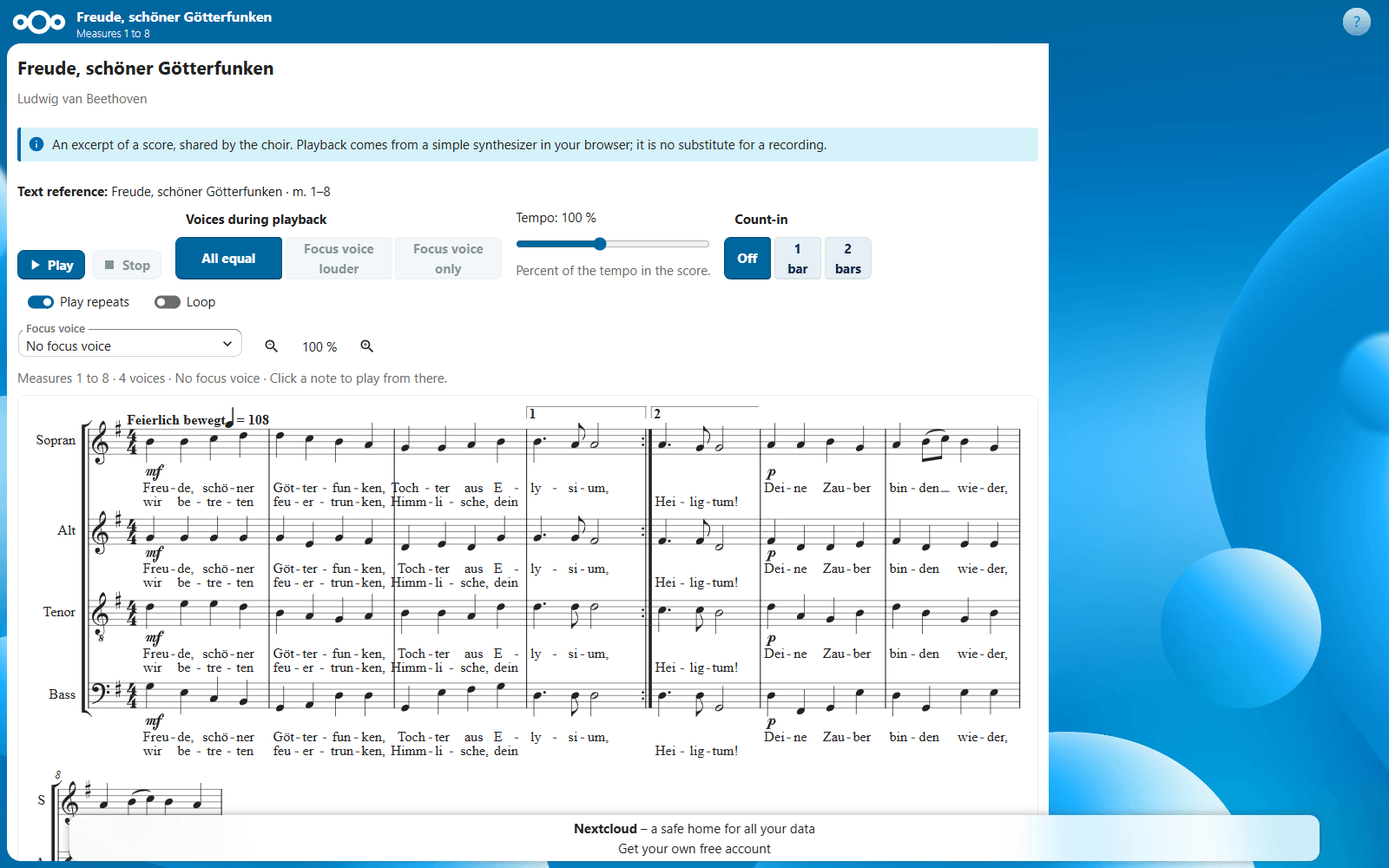
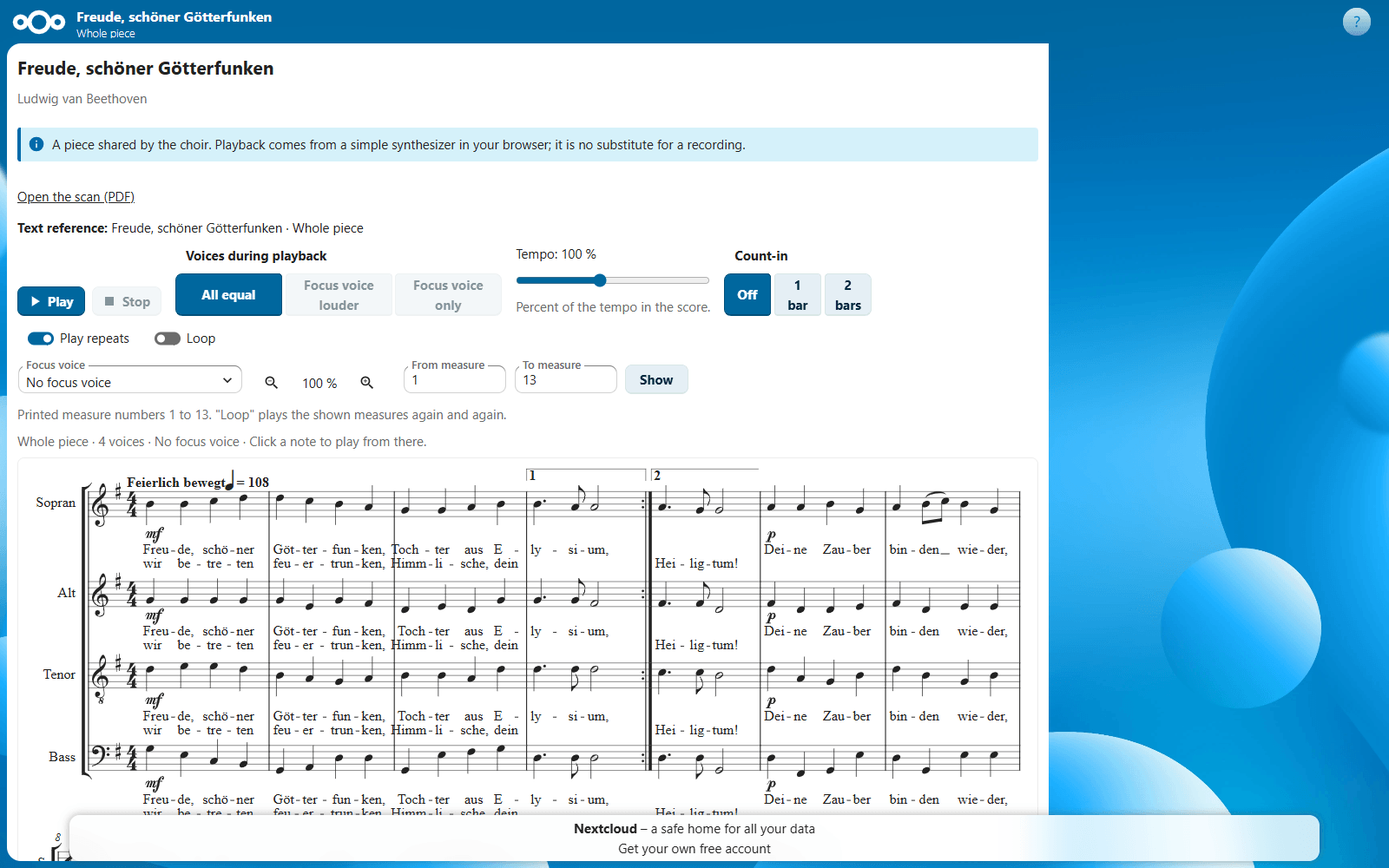
Screenshots of sharing whole pieces, all pictures in the German guides
The share dialog, "Shared with me" and the public link are taken again
with the demo data: a whole piece with the scan (PDF) instead of an
excerpt. The screenshot tool shares 1-1 and 1-2 as whole pieces with
their scan and uses the button "Share …". Alt texts in the guides, the
README and the list of screenshots follow.

The German user and administration guides now show the same pictures in
the same places as the English ones (16 added, German variants where
they exist), with German alt texts; a few alt texts are corrected to
what the pictures show. The docs test also compares the number of
images per section in English and German.

Claude-Session: https://claude.ai/code/session_01KdSSudemHpfG7TYcFxX45R

diff --git a/src/__tests__/docs.test.ts b/src/__tests__/docs.test.ts
@@ -80,6 +80,28 @@ function headings(text: string): { level: number, anchor: string, repeated: bool
 }
 
 /**
+ * The number of images (`![…](…)`) per section of a Markdown text: the text
+ * before the first heading, then each heading of any level up to the next.
+ * Headings inside code blocks do not start a section.
+ *
+ * @param text - Markdown
+ */
+function imagesPerSection(text: string): number[] {
+	const counts = [0]
+	let code = false
+	for (const line of text.split(/\r?\n/)) {
+		if (/^\s*(```|~~~)/.test(line)) {
+			code = !code
+		} else if (!code && /^#{1,6} /.test(line)) {
+			counts.push(0)
+		} else {
+			counts[counts.length - 1]! += line.match(/!\[[^\]]*\]\([^)]+\)/g)?.length ?? 0
+		}
+	}
+	return counts
+}
+
+/**
  * The anchors of the headings of a guide.
  *
  * @param path - path relative to the repository
@@ -144,6 +166,11 @@ describe('the guides in English and German', () => {
 		// A section added in only one language shows up here: change both.
 		const levels = (path: string) => headings(doc(path)).map((heading) => heading.level)
 		expect(levels(german)).toEqual(levels(english))
+	})
+
+	it.each(PAIRS)('%s and %s show the same number of images in each section', (english, german) => {
+		// A screenshot added in only one language shows up here: add it to both.
+		expect(imagesPerSection(doc(german))).toEqual(imagesPerSection(doc(english)))
 	})
 
 	it.each(PAIRS)('%s and %s link each other at the top', (english, german) => {

diff --git a/docs/de/benutzerhandbuch.md b/docs/de/benutzerhandbuch.md
@@ -144,7 +144,7 @@ Funktion ist abgeschaltet.*
 
 ### Startseite „Fällig“
 
-![Die Startseite „Fällig“ in der deutschen Oberfläche: Karten mit der Zahl der anstehenden Dinge, zum Beispiel offene Aufgaben, Programmpunkte mit unklarer Signatur und ein Vorschlag im Eingang.](../screenshots/de/start-page.png)
+![Die Startseite „Fällig“ in der deutschen Oberfläche: Karten mit der Zahl der anstehenden Dinge, zum Beispiel eine offene Aufgabe, Programmpunkte mit unklarer Signatur und Vorschläge im Eingang, darunter die Konzertfristen mit dem Adventskonzert 2026.](../screenshots/de/start-page.png)
 
 Die App öffnet mit **Fällig**: Das braucht jetzt deine Rollen. Karten zeigen,
 wie viele Dinge warten, zum Beispiel offene Aufgaben für deine Rolle,
@@ -215,9 +215,11 @@ auch Personen aus dem Personenregister. Sie zeigt nur, was deine Rollen sehen
 dürfen: interne Erhaltungskopien nur der Rolle „Bestand“ und der
 Chorleitung, und Konten ohne Rolle im Notenarchiv gar nichts.
 
+![Die Suche von Nextcloud mit dem Begriff „Mond“: unter den Dateien der Bereich „Notenarchiv“ mit den Exemplaren 1-1 und 3-1 „Der Mond ist aufgegangen“, jedes mit Komposition und Bearbeitung.](../screenshots/unified-search.png)
+
 ### Die Angaben zu einem Exemplar
 
-![Die Seitenleiste von Exemplar 1-1 im Reiter „Übersicht“: Titel, Rechtestatus, die Schaltfläche „Noten“, die Reiter und die Felder von Werk und Fassung, jeder Abschnitt mit einer Schaltfläche „Bearbeiten“.](../screenshots/copy-overview.png)
+![Die Seitenleiste von Exemplar 1-1 im Reiter „Details“: Titel, Rechtestatus, die Schaltfläche „Noten“, die Zahl der offenen Prüfpunkte, die Reiter Details, Rechte, Fragen, Dateien und Verlauf und die Felder des Werks mit der Schaltfläche „Bearbeiten“.](../screenshots/copy-overview.png)
 
 Klicke auf eine Zeile, um die Seitenleiste zu öffnen. Ihr Kopf zeigt das
 Rechte-Kennzeichen, den Status, wenn das Exemplar nicht aktiv ist, und
@@ -311,7 +313,7 @@ den Text einer Rückfrage oder den Namen einer Person.
 
 ### Aus der Dateien-App öffnen
 
-<!-- Screenshot planned: screenshots/files-action.png (docs/screenshots/README.md) -->
+![Die App „Dateien“ im Ordner Mappe_2 des Demo-Archivs mit dem geöffneten Aktionsmenü der MusicXML-Datei von Exemplar 2-1; unter den Aktionen „Im Notenarchiv öffnen“.](../screenshots/files-action.png)
 
 Der Archivordner ist ein gewöhnlicher Ordner in Nextcloud. Du findest eine
 Datei also auch in der App **Dateien**. Dateien des Archivordners haben im
@@ -508,7 +510,7 @@ Stimme aus einem mit ihnen geteilten Stück oder Ausschnitt erstellen (siehe
 
 ### Eine Rückfrage stellen oder eine Aufgabe geben
 
-![Der Reiter „Aufgaben“ von Exemplar 2-1 mit einer offenen Rückfrage an die Chorleitung zu den Takten 5 bis 8 im Tenor II und darunter ein interner Link auf dieselbe Stelle.](../screenshots/task-question.png)
+![Der Reiter „Fragen“ von Exemplar 2-1 mit einer offenen Rückfrage an die Chorleitung zu den Takten 5 bis 8 im Tenor II und darunter ein interner Link auf dieselbe Stelle.](../screenshots/task-question.png)
 
 Eine Rückfrage oder Aufgabe gehört immer zu einem Exemplar und kann eine
 Stelle in den Noten nennen: Seite, Takte, Stimme und Strophe.
@@ -630,6 +632,8 @@ sofort für alle.
 > bis 7 von „Der Mond ist aufgegangen“ (1-1) klingen dort als 1–6, 1–5, 7,
 > in einem geteilten Ausschnitt dieser Takte als 1–7.
 
+![Der Dialog „1-1 teilen“ über der Notenansicht: „Wer kann den Link öffnen?“ mit „Chormitglieder“ gewählt, „Was wird geteilt?“ mit „Ganzes Stück“, die Stimme Alt, die Gültigkeit, „Scan (PDF) mitgeben“ angehakt und der Kasten „Das ist beim Öffnen des Links zu sehen“ mit ganzem Stück, hervorgehobener Stimme, Tempo, Gültigkeit, Wiedergabe, Übe-Dateien und Scan (PDF).](../screenshots/share-dialog.png)
+
 #### Öffentliche Links
 
 Ein öffentlicher Link zeigt ein ganzes Stück oder einen Ausschnitt allen, die
@@ -651,6 +655,8 @@ Stimme und eine Textbeschreibung, spielt es mit betonter Stimme ab und
 verlinkt, falls mitgegeben, den Scan. Läuft der Link ab, wird er widerrufen
 oder ist die Fassung nicht mehr freigegeben, zeigen die Seite und der Scan
 „nicht gefunden“ ohne Grund.
+
+![Die Seite eines öffentlichen Links im öffentlichen Layout von Nextcloud, ohne Anmeldung: Titel und Komposition von „Freude, schöner Götterfunken“, der Hinweis, dass die Wiedergabe von einem einfachen Synthesizer kommt, der Link „Scan (PDF) öffnen“, die Wiedergabe mit Einzähler und Wiederholen und die Noten des ganzen Stücks.](../screenshots/public-link.png)
 
 ### Übertragungen prüfen
 
@@ -744,6 +750,8 @@ angesagt. Das Werkverzeichnis zeigt die Zahl der offenen Prüfpunkte je
 Exemplar, und der Filter **Offene Prüfpunkte** zeigt die Exemplare, die noch
 eine Entscheidung brauchen. Die zuständigen Rollen werden über neue
 Prüfpunkte benachrichtigt (eine Benachrichtigung je Bericht).
+
+![Die Notenansicht von Exemplar 2-1 mit dem Bereich „Prüfung der Übertragung“: die Liste der offenen Prüfpunkte und, ausgewählt, der Punkt in Takt 7, Tenor II, mit seiner Notiz, den Schaltflächen „Diese Stelle abspielen“ und „In der App korrigieren …“ und den Entscheidungen; links Takt 7 mit hervorgehobenem Tenor II.](../screenshots/review-points.png)
 
 #### Kleine Korrekturen in der App
 
@@ -849,6 +857,8 @@ Gibt es einen neueren Stand als den geltenden, sagt die Liste das.
    als reiner Text ohne Noten. Wähle **Notiz kopieren** und füge sie in eine
    E-Mail oder eine Nachricht ein.
 
+![Der Reiter „Dateien“ von Exemplar 2-2, Abschnitt „Stände dieser Fassung“: Stand 2, eine Korrektur in der App, geltend seit heute, mit Takten, Stimmen und Begründung; Stand 1, der erste erfasste Stand; darunter der Vergleich beider mit einem Unterschied in Takt 3 und die Notiz für Chormitglieder.](../screenshots/revisions.png)
+
 Verglichen werden Noten, Pausen, Notenwerte, Vorzeichen und Text; Layout,
 Dynamik und Bögen nicht. Die Chorleitung und jede andere Archivrolle können
 vergleichen; die Dateien werden mit deinen eigenen Nextcloud-Rechten
@@ -935,7 +945,7 @@ Programm, die gedruckten Listen und die Liederfolge nennen ihn.
 
 ### Konzerte im eigenen Kalender
 
-![Der Dialog „In meinen Kalender eintragen“ mit dem Kalender „Chor“ des Kontos zur Auswahl und den Hinweisen, dass die Vorbereitungsfristen als ganztägige Einträge dazukommen und ein vorhandener Eintrag aktualisiert und nicht doppelt angelegt wird.](../screenshots/calendar-dialog.png)
+![Der Dialog „In meinen Kalender eintragen“ mit dem Kalender „Persönlich“ des Kontos zur Auswahl und den Hinweisen, dass die Vorbereitungsfristen als ganztägige Einträge dazukommen und ein vorhandener Eintrag aktualisiert und nicht doppelt angelegt wird.](../screenshots/calendar-dialog.png)
 
 In einem Konzert und für alle kommenden Konzerte in der Konzertliste:
 
@@ -1058,6 +1068,8 @@ Interne Erhaltungskopien werden nie kopiert. Die Dateien heißen
 `<shelf mark> <title>.pdf`; eine Datei `LIESMICH.txt` im Ordner sagt, wann
 er zuletzt geändert wurde und dass die Noten nur für den Chor sind.
 
+![Die Liste „Druckstation“ mit dem Abschnitt „Spiegelordner für die Druckstation“ und dem Dialog „Vorschau des Abgleichs“: Fünf Dateien würden kopiert, eine würde übersprungen, weil im Zielordner eine Datei dieses Namens liegt, die nicht die App geschrieben hat.](../screenshots/print-mirror-preview.png)
+
 **So startest du den ersten Abgleich** (Rolle „Bestand“):
 
 1. **Druckstation** → Abschnitt **Spiegelordner für die Druckstation** →
@@ -1097,6 +1109,8 @@ Lebensdaten, Besetzung und Links zu CPDL und IMSLP:
 Die Seite lädt nichts von CPDL oder IMSLP; sie verlinkt nur dorthin. Die
 Lebensdaten kommen aus dem Personenregister. Ein Werk verschwindet von der
 Seite, sobald keine Fassung mehr als gemeinfrei bestätigt ist.
+
+![Die öffentliche Repertoireseite im öffentlichen Layout von Nextcloud: drei gemeinfreie Werke, jedes mit Komposition und Text und deren Lebensdaten, der Besetzung und einem Link zur Notenbibliothek CPDL oder IMSLP.](../screenshots/public-repertoire.png)
 
 ### Vorschläge im Eingang entscheiden
 
@@ -1238,6 +1252,8 @@ Personen zählen weiter wie gewohnt, und das spätere Ende entscheidet. Der
 Vorschlag bleibt ein Vorschlag: Die Archivverwaltung entscheidet, ob ein
 Sonderfall vorliegt, und bestätigt die Rechte.
 
+![Der Reiter „Rechte“ von Exemplar 1-6 mit dem Abschnitt „Beteiligte Personen und Schutzfrist“: nach den Lebensdaten gemeinfrei, weil der Schutz als wissenschaftliche Ausgabe (§ 70 UrhG), die 1991 erschien, mit Ablauf von 2016 endete.](../screenshots/protection-special-case.png)
+
 ### Rechtevermerke in MusicXML-Dateien
 
 Viele MusicXML-Dateien tragen einen Rechtevermerk, z. B. „Public domain“
@@ -1251,6 +1267,8 @@ Vermerk ist eine Angabe aus der Datei, keine Entscheidung:
   **Eingang**: den Rechtestatus „gemeinfrei“ oder den Lizenztext für ein
   leeres Feld **Lizenz**. Nimm ihn erst an, nachdem du die Rechte selbst
   geprüft hast.
+
+![Der Reiter „Dateien“ von Exemplar 1-1: die MusicXML-Datei mit der Markierung „Nicht geprüft“ und dem aus der Datei übernommenen Rechtevermerk „Melodie und Text gemeinfrei. Satz: CC0 1.0“, mit dem Hinweis, dass er keinen Rechtestatus ändert.](../screenshots/rights-notice.png)
 
 
 ### Werke zusammenführen und Exemplare verschieben
@@ -1334,6 +1352,8 @@ festgelegt hat.
    geändert haben.
 3. **Drucken** druckt den Vergleich auf A4.
 
+![Die Ansicht „Jahresstände“: was ein neuer Jahresstand wohin schreibt, der Schalter für den automatischen Jahresstand im Januar, zwei Jahresstände von 2026 und ihr Vergleich: eine Fassung mit hinzugekommener Bestätigung und eine neue Lizenz.](../screenshots/annual-snapshots.png)
+
 ## Für den Betrieb
 
 Die Rolle **Betrieb (Archivverwaltung)** kümmert sich um die Exemplare im
@@ -1376,6 +1396,8 @@ der höchsten vergebenen Nummer, die kein Exemplar hat, z. B.
 Neuzugang, um Exemplare zu finden, die nie erfasst wurden oder verloren
 gegangen sind.
 
+![Die Ansicht „Signaturlücken“ des Demo-Archivs: je Archivmappe die höchste Nummer, die Exemplare und die Nummern ohne Exemplar; in Archivmappe 4 die Signatur 4-4, die nur ein Dateiname verwendet.](../screenshots/shelfmark-gaps.png)
+
 1. Öffne **Signaturlücken** (bei der Inventur unter **Bestandspflege**).
 2. Prüfe jede Lücke am Regal. Ein Hinweis unter den Lücken nennt Nummern,
    die eine Datei im Archivordner verwendet: vermutlich ein Exemplar, das
@@ -1394,6 +1416,8 @@ sie enthält und was fehlt. Die Archivverwaltung (Bestand und Betrieb) führt
 es; Chorleitung und Vorstand lesen es. Chormitglieder und Werkzeuge sehen es
 nie. Die Administration schaltet es ein (Modul „Mappenbuch“); es gehört zur
 Voreinstellung „Vollständig“.
+
+![Das Mappenbuch mit drei Mappen: Mappe 12 seit dem 14.09.2026 bei einer erfundenen Person, die Mappen 14 und 21 verfügbar, Mappe 21 abgenutzt mit einem fehlenden Blatt und dem Hinweis, dass sie ein im Werkverzeichnis ausgemustertes Exemplar enthält.](../screenshots/folder-book.png)
 
 Das Mappenbuch hält nur fest, wer welche Mappe hat. Anwesenheit und die
 Ausgabe am Eingang an Probenabenden gehören nicht zur App.
@@ -1431,6 +1455,8 @@ Zwei Mappen im Dienst können nicht dieselbe Nummer oder Bezeichnung haben.
    füge fehlende Blätter hinzu oder entferne sie.
 3. **Zurücknehmen**. Zustand und fehlende Blätter gelten nun für die Mappe;
    die Mappe ist wieder verfügbar.
+
+![Der Dialog „Mappe 12 zurücknehmen“: seit wann und bei wem sie ausgegeben war, der Tag der Rückgabe, der gewählte Zustand „abgenutzt“, die fehlenden Blätter und eine Notiz.](../screenshots/folder-take-back.png)
 
 #### Eine Mappe außer Dienst stellen
 
@@ -1550,6 +1576,8 @@ Ausschnitte mit Titel, Komposition, **Ganzes Stück** oder den Takten,
 Stimme, der Notiz und wie lange jedes gilt, ob es sich abspielen lässt
 (**Abspielen: ja** oder **Abspielen: nein**) und ob der Scan dabei ist
 (**mit Scan (PDF)**).
+
+![Die Seite „Für mich freigegeben“ eines Chormitglieds: das ganze Stück „Der Mond ist aufgegangen“ mit der Notiz der Chorleitung, der Gültigkeit, dem Link „Scan (PDF) öffnen“, der Wiedergabe mit Einzähler und Wiederholen und den Noten mit hervorgehobenem Alt.](../screenshots/shared-with-me.png)
 
 1. Wähle ein Stück in der Liste (ein Link, den du bekommen hast, öffnet es
    direkt). Die Noten erscheinen über der Liste, bei einem ganzen Stück alle

diff --git a/docs/screenshots/README.md b/docs/screenshots/README.md
@@ -1,8 +1,9 @@
 # Screenshots
 
 Pictures for the README, the guides and the Nextcloud App Store. They were
-taken in Nextcloud 33 with app version 0.7.0-dev.8 and the public demo data
-from [`tools/demo`](../../tools/demo/README.md): the invented choir
+taken in Nextcloud 33 with app version 0.7.0-dev.8 (the three pictures of
+sharing a whole piece, `share-dialog.png`, `shared-with-me.png` and
+`public-link.png`, with 0.7.0-dev.11) and the public demo data from [`tools/demo`](../../tools/demo/README.md): the invented choir
 "Demochor", CC0. The accounts and groups have neutral names ("Demo
 Librarian", "Demo Conductor", "Demo Choir Member", "Music librarians"); the
 folder book names an invented person. The only real persons shown are
@@ -27,14 +28,14 @@ The App Store shows the files marked with a number, in this order
 | `start-page-due.png` | 5 | The start page "Due" of the Demo Librarian: cards with what is to do, the concert deadlines and the tasks for the librarian's roles. |
 | `concert-planning.png` | 6 | The planned concert "Adventskonzert 2026" with time, location, status and the pieces with durations and warnings. |
 | `statistics.png` | 7 | The statistics: period, sections and key figures of the stock. |
-| `shared-with-me.png` | 8 | The page "Shared with me" of a choir member: the excerpt of 1-1, measures 1 to 4, with the note of the conductor, the playback controls with count-in and loop, and the score with the alto highlighted. |
+| `shared-with-me.png` | 8 | The page "Shared with me" of a choir member: the whole piece 1-1 with the note of the conductor, the link "Open the scan (PDF)", the playback controls with count-in and loop, and the score with the alto highlighted. |
 | `score-dark.png` | 9 | The score viewer in the dark theme. |
 | `de/catalog.png` | 10 | The catalog in the German interface. |
 | `dashboard-widget.png` | – | The Nextcloud dashboard with the widget "Music archive – due". |
 | `review-points.png` | – | The score viewer of copy 2-1 with the panel "Review of the transcription" of its demo report: the review point at measure 7, Tenor II, chosen (measure shown, voice highlighted), "Play this passage", "Correct in the app …" and the decisions. |
 | `files-action.png` | – | The Files app in the folder `Mappe_2` of the demo archive with the actions menu of the MusicXML file of copy 2-1 and the action "Open in music archive". |
-| `share-dialog.png` | – | The dialog "Share excerpt of 1-1" over the score viewer: "Who can open the link?" with "Choir members" chosen, measures 1 to 4, the voice Alt, validity, and the box "What the recipients see" (playback yes, practice files yes). |
-| `public-link.png` | – | The page of a public link in Nextcloud's public layout, without signing in: title, composer, the playback controls and measures 1 to 8 of 1-2. |
+| `share-dialog.png` | – | The dialog "Share 1-1" over the score viewer: "Who can open the link?" with "Choir members" chosen, "What is shared?" with "Whole piece", the voice Alt, validity, "Include the scan (PDF)" ticked, and the box "What the recipients see" (playback, practice files and scan yes). |
+| `public-link.png` | – | The page of a public link in Nextcloud's public layout, without signing in: title, composer, the link "Open the scan (PDF)", the playback controls and the whole piece 1-2. |
 | `public-repertoire.png` | – | The public repertoire page with three works confirmed as public domain, composer and lyricist with life dates, scoring and links to CPDL or IMSLP. |
 | `print-mirror-preview.png` | – | The list "Print station" with the section "Mirror folder for the print station" and the dialog "Preview of the sync": five files would be copied, one is skipped with the reason. |
 

diff --git a/docs/user-guide.md b/docs/user-guide.md
@@ -587,7 +587,7 @@ number of calls; **Revoke link** stops a link at once for everyone.
 > piece: measures 1 to 7 of "Der Mond ist aufgegangen" (1-1) sound there as
 > 1–6, 1–5, 7, in a shared excerpt of these measures as 1–7.
 
-![The dialog "Share excerpt of 1-1" over the score viewer: "Who can open the link?" with "Choir members" chosen, measures 1 to 4, the voice Alt, a note and the validity, and the box "What the recipients see" with measures, focus voice, tempo, validity, playback yes and practice files yes.](screenshots/share-dialog.png)
+![The dialog "Share 1-1" over the score viewer: "Who can open the link?" with "Choir members" chosen, "What is shared?" with "Whole piece" chosen, the voice Alt, the validity, "Include the scan (PDF)" ticked, and the box "What the recipients see" with whole piece, focus voice, tempo, validity, playback, practice files and scan (PDF).](screenshots/share-dialog.png)
 
 #### Public links
 
@@ -609,7 +609,7 @@ description, plays it with the voice emphasised and, if included, links to
 the scan. When the link expires, is revoked or the version is no longer
 released, the page and the scan show "not found" without a reason.
 
-![The page of a public link in Nextcloud's public layout, without signing in: title and composer of "Freude, schöner Götterfunken", the note that playback comes from a simple synthesizer, the playback controls with count-in and loop, and measures 1 to 8 of the score.](screenshots/public-link.png)
+![The page of a public link in Nextcloud's public layout, without signing in: title and composer of "Freude, schöner Götterfunken", the note that playback comes from a simple synthesizer, the link "Open the scan (PDF)", the playback controls with count-in and loop, and the whole piece in the score.](screenshots/public-link.png)
 
 ### Reviewing transcriptions
 
@@ -1470,7 +1470,7 @@ title, composer, **Whole piece** or the measures, voice, the note and how
 long each is valid, whether it can be played (**Playback: yes** or
 **Playback: no**) and whether the scan is included (**with scan (PDF)**).
 
-![The page "Shared with me" of a choir member: the excerpt of "Der Mond ist aufgegangen", measures 1 to 4, with the note of the conductor, the validity, the playback controls with count-in and loop, and the score with the alto highlighted.](screenshots/shared-with-me.png)
+![The page "Shared with me" of a choir member: the whole piece "Der Mond ist aufgegangen" with the note of the conductor, the validity, the link "Open the scan (PDF)", the playback controls with count-in and loop, and the score with the alto highlighted.](screenshots/shared-with-me.png)
 
 1. Choose a piece in the list (a link sent to you opens it directly). The
    notes appear above the list, for a whole piece all pages of it.

diff --git a/docs/de/administrationshandbuch.md b/docs/de/administrationshandbuch.md
@@ -129,7 +129,7 @@ ist ein Wechsel der Gruppenmitgliedschaft.
 4. Prüfe den Zugriff auf den Archivordner: Auch Konten, die neu eine Rolle
    haben, brauchen ihn ([Abschnitt 3](#prüfen-wer-den-archivordner-öffnen-kann)).
 
-![Die Einstellungen der App in den Verwaltungseinstellungen: der Archivordner mit der Schaltfläche, um ihn zu wählen, und die Rollen, jede mit einer kurzen Beschreibung und den ihr zugeordneten Gruppen, zum Beispiel „Archivverwaltung“ für die Rolle „Bestand“.](../screenshots/settings-roles.png)
+![Der Abschnitt „Rollen und Gruppen“ unter Verwaltungseinstellungen → Notenarchiv: jede Rolle mit den ihr zugeordneten Gruppen und einer kurzen Beschreibung, zum Beispiel die Gruppe „Music librarians“ für die Rolle „Bestand (Archivverwaltung)“ und „Choir members“ für die Rolle „Chormitglieder (nur geteilte Ausschnitte)“, und die Schaltfläche „Rollen speichern“.](../screenshots/settings-roles.png)
 
 Die Seite **Verwaltungseinstellungen → Notenarchiv** enthält alle
 Einstellungen der App: Archivordner, Rollen und Gruppen, Zugriff auf den
@@ -944,6 +944,8 @@ Es ist neben den kleinen Korrekturen die einzige Funktion, die Dateien
 schreibt, und sie schreibt nur in diesen Ordner, nie in den Archivordner
 (Leitlinie 4 der [Roadmap](../../ROADMAP.md)). Es gehört zu keiner
 Voreinstellung; schalte es bewusst ein.
+
+![Der Abschnitt „Druckstation: Spiegelordner“ unter Verwaltungseinstellungen → Notenarchiv: was der Spiegelordner tut, die Warnung, dass alle, die ihn öffnen können, die Scans drucken können, der aktuelle Zielordner und, nach der Wahl eines Ordners, die Meldung, dass er passt, mit den Schaltflächen zum Abbrechen und Speichern.](../screenshots/settings-print-mirror.png)
 
 So richtest du es ein:
 

diff --git a/tools/screenshots/README.md b/tools/screenshots/README.md
@@ -106,14 +106,15 @@ conductors and the administrators, imports persons, performances and song
 lists, confirms rights, adds licenses, chooses valid versions, asks
 questions, makes a proposal and an internal link, and plans the concert
 "Adventskonzert 2026". For the newer pictures it releases 1-1 for the
-singers' portal and 1-2 for publication, makes a link for choir members and
-a public link, puts three works on the public repertoire page, creates three
-folders of the folder book (one out with an invented name), chooses the
-folder "Print station" of the administrator as mirror folder (with a file of
-the same name as a scan, which the sync skips), corrects one note of 2-2 so
-that it has a second revision, marks 1-6 as a scientific edition and writes
-two annual snapshots with a confirmation and a license between them. It
-skips what is done already, so it can run again.
+singers' portal and 1-2 for publication, shares both as a whole piece with
+the scan (PDF), with a link for choir members and a public link, puts three
+works on the public repertoire page, creates three folders of the folder
+book (one out with an invented name), chooses the folder "Print station" of
+the administrator as mirror folder (with a file of the same name as a scan,
+which the sync skips), corrects one note of 2-2 so that it has a second
+revision, marks 1-6 as a scientific edition and writes two annual snapshots
+with a confirmation and a license between them. It skips what is done
+already, so it can run again.
 
 ## Running
 

diff --git a/README.md b/README.md
@@ -110,7 +110,7 @@ The screenshots show the invented demo archive from [tools/demo](tools/demo/READ
   </tr>
   <tr>
     <td width="33%" valign="top">
-      <a href="docs/screenshots/shared-with-me.png"><img src="docs/screenshots/shared-with-me.png" width="280" alt="The page Shared with me of a choir member: an excerpt of four measures with the note of the conductor, the playback controls with count-in and loop, and the score with the alto highlighted."></a>
+      <a href="docs/screenshots/shared-with-me.png"><img src="docs/screenshots/shared-with-me.png" width="280" alt="The page Shared with me of a choir member: a whole piece with the note of the conductor, the link to the scan, the playback controls with count-in and loop, and the score with the alto highlighted."></a>
       <h3>Sharing with choir members and the public</h3>
       <p>If the administration switches it on, the conductor or the music librarians share an excerpt from the score viewer: choir members see it under "Shared with me", play it with their voice emphasised and make a practice file; a public link shows it without signing in; a public repertoire page lists the works in the public domain with links to CPDL and IMSLP. The dialog says beforehand what the recipients will see. The server cuts the score to the shared bars and checks the rights on every call; choir members and the public never receive a file of the archive. These modules are off until switched on.</p>
     </td>

diff --git a/docs/de/schnellstart.md b/docs/de/schnellstart.md
@@ -77,7 +77,7 @@ oder exportiert; nur Archivverwaltung und Chorleitung sehen sie.
 
 ### Startseite „Fällig“
 
-![Die Startseite „Fällig“ in der deutschen Oberfläche: Karten mit der Zahl der anstehenden Dinge, zum Beispiel offene Aufgaben, Programmpunkte mit unklarer Signatur und ein Vorschlag im Eingang.](../screenshots/de/start-page.png)
+![Die Startseite „Fällig“ in der deutschen Oberfläche: Karten mit der Zahl der anstehenden Dinge, zum Beispiel eine offene Aufgabe, Programmpunkte mit unklarer Signatur und Vorschläge im Eingang, darunter die Konzertfristen mit dem Adventskonzert 2026.](../screenshots/de/start-page.png)
 
 Das Notenarchiv öffnet mit **Fällig**: Karten zeigen, was für deine Rollen
 ansteht, zum Beispiel offene Aufgaben, Vorschläge im Eingang oder Fassungen,
